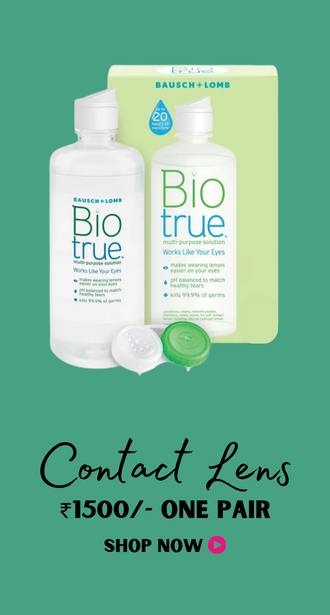
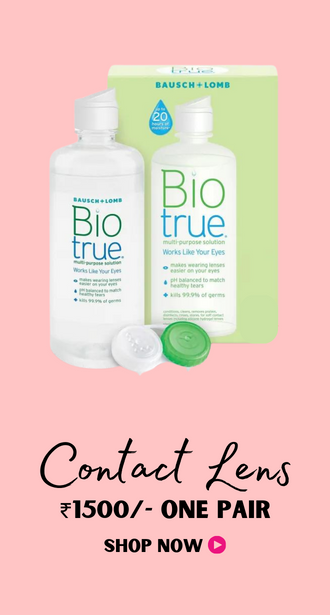
changed index page

diff --git a/assets/css/style.min.css b/assets/css/style.min.css
@@ -5420,7 +5420,7 @@ a.meanmenu-reveal.meanclose {
     border-radius: 5px;
     width:auto;
     padding: 0 20px;
-    background-color:#C4DFDF;
+    background-color:#F7C8E0;
     
 }
 
